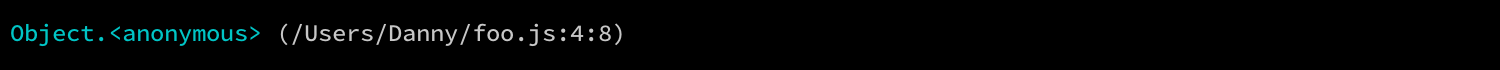
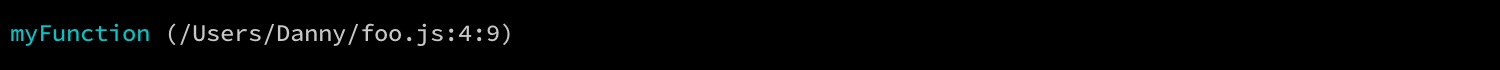
Tweak `dantil.logLine()` example

Changed region(s): [[0.0, 0.3429, 0.4293, 0.6571]]

diff --git a/dantil.js b/dantil.js
@@ -1183,12 +1183,16 @@ exports.logTrace = function (message) {
  * ```
  * The contents of `foo.js`:
  * ```js
- * dantil.logLine()
+ * function myFunction() {
+ *   dantil.logLine()
+ * }
  * ```
  * Output:
  * <br><img src="https://raw.githubusercontent.com/DannyNemer/dantil/master/doc/img/dantil-logLine-example.jpg" alt="dantil.logLine() example output"/>
  * ```js
- * dantil.logLine('Bad area reached!')
+ * function myFunction() {
+ *   dantil.logLine('Bad area reached!')
+ * }
  * ```
  * Output:
  * <br><img src="https://raw.githubusercontent.com/DannyNemer/dantil/master/doc/img/dantil-logLine-label-example.jpg" alt="dantil.logLine(label) example output"/>

diff --git a/README.md b/README.md
@@ -941,7 +941,7 @@ Output:
 <!-- div -->
 
 ### <a id="dantil-logLine"></a>`dantil.logLine([label])`
-<a href="#dantil-logLine">#</a> [&#x24C8;](https://github.com/DannyNemer/dantil/blob/master/dantil.js#L1197 "View in source") [&#x24C9;][1]
+<a href="#dantil-logLine">#</a> [&#x24C8;](https://github.com/DannyNemer/dantil/blob/master/dantil.js#L1201 "View in source") [&#x24C9;][1]
 
 Prints the calling function name, file path, and line number. This is useful for marking reaching a section of code.
 
@@ -951,12 +951,16 @@ Prints the calling function name, file path, and line number. This is useful for
 #### Example
 The contents of `foo.js`:
 ```js
-dantil.logLine()
+function myFunction() {
+  dantil.logLine()
+}
 ```
 Output:
 <br><img src="https://raw.githubusercontent.com/DannyNemer/dantil/master/doc/img/dantil-logLine-example.jpg" alt="dantil.logLine() example output"/>
 ```js
-dantil.logLine('Bad area reached!')
+function myFunction() {
+  dantil.logLine('Bad area reached!')
+}
 ```
 Output:
 <br><img src="https://raw.githubusercontent.com/DannyNemer/dantil/master/doc/img/dantil-logLine-label-example.jpg" alt="dantil.logLine(label) example output"/>
@@ -967,7 +971,7 @@ Output:
 <!-- div -->
 
 ### <a id="dantil-logLineIf"></a>`dantil.logLineIf(value, [label])`
-<a href="#dantil-logLineIf">#</a> [&#x24C8;](https://github.com/DannyNemer/dantil/blob/master/dantil.js#L1232 "View in source") [&#x24C9;][1]
+<a href="#dantil-logLineIf">#</a> [&#x24C8;](https://github.com/DannyNemer/dantil/blob/master/dantil.js#L1236 "View in source") [&#x24C9;][1]
 
 If `value` is truthy, prints the calling function name, file path, and line number. This is useful for marking reaching a section of code.
 
@@ -995,7 +999,7 @@ Output:
 <!-- div -->
 
 ### <a id="dantil-prettifyStackTrace"></a>`dantil.prettifyStackTrace([removePathParens])`
-<a href="#dantil-prettifyStackTrace">#</a> [&#x24C8;](https://github.com/DannyNemer/dantil/blob/master/dantil.js#L1256 "View in source") [&#x24C9;][1]
+<a href="#dantil-prettifyStackTrace">#</a> [&#x24C8;](https://github.com/DannyNemer/dantil/blob/master/dantil.js#L1260 "View in source") [&#x24C9;][1]
 
 Modifies V8's default stack trace format (when printing) to stylize output and collect 15 stack frames instead of (the default) 10.
 
@@ -1024,7 +1028,7 @@ After:
 <!-- div -->
 
 ### <a id="dantil-assertEqual"></a>`dantil.assertEqual(value, other, [message])`
-<a href="#dantil-assertEqual">#</a> [&#x24C8;](https://github.com/DannyNemer/dantil/blob/master/dantil.js#L1328 "View in source") [&#x24C9;][1]
+<a href="#dantil-assertEqual">#</a> [&#x24C8;](https://github.com/DannyNemer/dantil/blob/master/dantil.js#L1332 "View in source") [&#x24C9;][1]
 
 Tests shallow, coercive equality with the equal comparison operator (`==`). If the test fails, prints an error message and the file path and line number to `stderr`. In contrast, Node's `assert.equal()` throws an exception.
 
@@ -1070,7 +1074,7 @@ if (dantil.assertEqual(myArray.length, 100)) {
 <!-- div -->
 
 ### <a id="dantil-time"></a>`dantil.time(label)`
-<a href="#dantil-time">#</a> [&#x24C8;](https://github.com/DannyNemer/dantil/blob/master/dantil.js#L1372 "View in source") [&#x24C9;][1]
+<a href="#dantil-time">#</a> [&#x24C8;](https://github.com/DannyNemer/dantil/blob/master/dantil.js#L1376 "View in source") [&#x24C9;][1]
 
 Starts a high-resolution timer (with precision in microseconds) identified by `label`. Use `dantil.timeEnd(label)` to print the timer's current value.
 
@@ -1099,7 +1103,7 @@ dantil.timeEnd('my test')
 <!-- div -->
 
 ### <a id="dantil-timeEnd"></a>`dantil.timeEnd(label)`
-<a href="#dantil-timeEnd">#</a> [&#x24C8;](https://github.com/DannyNemer/dantil/blob/master/dantil.js#L1382 "View in source") [&#x24C9;][1]
+<a href="#dantil-timeEnd">#</a> [&#x24C8;](https://github.com/DannyNemer/dantil/blob/master/dantil.js#L1386 "View in source") [&#x24C9;][1]
 
 Prints the current high-resolution value of a timer initiated with `dantil.time(label)`.
 
@@ -1113,7 +1117,7 @@ Prints the current high-resolution value of a timer initiated with `dantil.time(
 <!-- div -->
 
 ### <a id="dantil-count"></a>`dantil.count(label)`
-<a href="#dantil-count">#</a> [&#x24C8;](https://github.com/DannyNemer/dantil/blob/master/dantil.js#L1409 "View in source") [&#x24C9;][1]
+<a href="#dantil-count">#</a> [&#x24C8;](https://github.com/DannyNemer/dantil/blob/master/dantil.js#L1413 "View in source") [&#x24C9;][1]
 
 Increments the invocation count for `label`. Use `dantil.end(label)` or `dantil.endAll()` to print the counter's value. This is useful for profiling the number of times a section of code is reached.
 
@@ -1137,7 +1141,7 @@ dantil.countEnd('even')
 <!-- div -->
 
 ### <a id="dantil-countEnd"></a>`dantil.countEnd(label)`
-<a href="#dantil-countEnd">#</a> [&#x24C8;](https://github.com/DannyNemer/dantil/blob/master/dantil.js#L1419 "View in source") [&#x24C9;][1]
+<a href="#dantil-countEnd">#</a> [&#x24C8;](https://github.com/DannyNemer/dantil/blob/master/dantil.js#L1423 "View in source") [&#x24C9;][1]
 
 Prints (and resets the value of) the number of `dantil.count(label)` invocations.
 
@@ -1151,7 +1155,7 @@ Prints (and resets the value of) the number of `dantil.count(label)` invocations
 <!-- div -->
 
 ### <a id="dantil-countEndAll"></a>`dantil.countEndAll`
-<a href="#dantil-countEndAll">#</a> [&#x24C8;](https://github.com/DannyNemer/dantil/blob/master/dantil.js#L1440 "View in source") [&#x24C9;][1]
+<a href="#dantil-countEndAll">#</a> [&#x24C8;](https://github.com/DannyNemer/dantil/blob/master/dantil.js#L1444 "View in source") [&#x24C9;][1]
 
 Prints (and resets the values of) the counter value of each label recorded by `counter.count()`, and each counter's value as a percentage of all counters.
 <br>
@@ -1182,7 +1186,7 @@ dantil.endAll()
 <!-- div -->
 
 ### <a id="dantil-clone"></a>`dantil.clone(value)`
-<a href="#dantil-clone">#</a> [&#x24C8;](https://github.com/DannyNemer/dantil/blob/master/dantil.js#L1460 "View in source") [&#x24C9;][1]
+<a href="#dantil-clone">#</a> [&#x24C8;](https://github.com/DannyNemer/dantil/blob/master/dantil.js#L1464 "View in source") [&#x24C9;][1]
 
 Creates a shallow clone of `value`.
 
@@ -1209,7 +1213,7 @@ shallow[0] === objects[0]
 <!-- div -->
 
 ### <a id="dantil-isDeepEqual"></a>`dantil.isDeepEqual(value, other, [customizer], [thisArg])`
-<a href="#dantil-isDeepEqual">#</a> [&#x24C8;](https://github.com/DannyNemer/dantil/blob/master/dantil.js#L1505 "View in source") [&#x24C9;][1]
+<a href="#dantil-isDeepEqual">#</a> [&#x24C8;](https://github.com/DannyNemer/dantil/blob/master/dantil.js#L1509 "View in source") [&#x24C9;][1]
 
 Performs a deep comparison between two values to determine if they are equivalent using the [`lodash.isEqual`](https://npmjs.com/package/lodash.isequal) module.
 
@@ -1246,7 +1250,7 @@ dantil.isDeepEqual(object, other)
 <!-- div -->
 
 ### <a id="dantil-unary"></a>`dantil.unary(func)`
-<a href="#dantil-unary">#</a> [&#x24C8;](https://github.com/DannyNemer/dantil/blob/master/dantil.js#L1520 "View in source") [&#x24C9;][1]
+<a href="#dantil-unary">#</a> [&#x24C8;](https://github.com/DannyNemer/dantil/blob/master/dantil.js#L1524 "View in source") [&#x24C9;][1]
 
 Creates a function that accepts up to one argument, ignoring any additional arguments.
 
@@ -1274,7 +1278,7 @@ Creates a function that accepts up to one argument, ignoring any additional argu
 <!-- div -->
 
 ### <a id="dantil-objectsEqual"></a>`dantil.objectsEqual(a, b)`
-<a href="#dantil-objectsEqual">#</a> [&#x24C8;](https://github.com/DannyNemer/dantil/blob/master/dantil.js#L1556 "View in source") [&#x24C9;][1]
+<a href="#dantil-objectsEqual">#</a> [&#x24C8;](https://github.com/DannyNemer/dantil/blob/master/dantil.js#L1560 "View in source") [&#x24C9;][1]
 
 Performs a shallow comparison between two objects to determine if they are equivalent.
 
@@ -1313,7 +1317,7 @@ dantil.objectsEqual({ a: objA, b: objB }, { a: objA, b: objB })
 <!-- div -->
 
 ### <a id="dantil-deleteUndefinedObjectProps"></a>`dantil.deleteUndefinedObjectProps(object)`
-<a href="#dantil-deleteUndefinedObjectProps">#</a> [&#x24C8;](https://github.com/DannyNemer/dantil/blob/master/dantil.js#L1582 "View in source") [&#x24C9;][1]
+<a href="#dantil-deleteUndefinedObjectProps">#</a> [&#x24C8;](https://github.com/DannyNemer/dantil/blob/master/dantil.js#L1586 "View in source") [&#x24C9;][1]
 
 Recursively removes all properties of `object` defined as `undefined`. This is useful for object comparisons and pretty-printing.
 <br>
@@ -1333,7 +1337,7 @@ Recursively removes all properties of `object` defined as `undefined`. This is u
 <!-- div -->
 
 ### <a id="dantil-diffObjects"></a>`dantil.diffObjects(object, other, [collapsed])`
-<a href="#dantil-diffObjects">#</a> [&#x24C8;](https://github.com/DannyNemer/dantil/blob/master/dantil.js#L1648 "View in source") [&#x24C9;][1]
+<a href="#dantil-diffObjects">#</a> [&#x24C8;](https://github.com/DannyNemer/dantil/blob/master/dantil.js#L1652 "View in source") [&#x24C9;][1]
 
 Compares two objects line by line and stylizes the differences for printing.
 
@@ -1398,7 +1402,7 @@ Collapsed output:
 <!-- div -->
 
 ### <a id="dantil-arraysEqual"></a>`dantil.arraysEqual(a, b, [predicate])`
-<a href="#dantil-arraysEqual">#</a> [&#x24C8;](https://github.com/DannyNemer/dantil/blob/master/dantil.js#L1762 "View in source") [&#x24C9;][1]
+<a href="#dantil-arraysEqual">#</a> [&#x24C8;](https://github.com/DannyNemer/dantil/blob/master/dantil.js#L1766 "View in source") [&#x24C9;][1]
 
 Performs a shallow comparison between two arrays to determine if they are equivalent.
 <br>
@@ -1446,7 +1450,7 @@ dantil.arraysEqual([ objA, objB ], [ objA, objB ])
 <!-- div -->
 
 ### <a id="dantil-new2DArray"></a>`dantil.new2DArray(length, [subLength=0])`
-<a href="#dantil-new2DArray">#</a> [&#x24C8;](https://github.com/DannyNemer/dantil/blob/master/dantil.js#L1806 "View in source") [&#x24C9;][1]
+<a href="#dantil-new2DArray">#</a> [&#x24C8;](https://github.com/DannyNemer/dantil/blob/master/dantil.js#L1810 "View in source") [&#x24C9;][1]
 
 Creates a new two-dimensional array with length `length`.
 
@@ -1472,7 +1476,7 @@ dantil.new2DArray(4, 2)
 <!-- div -->
 
 ### <a id="dantil-without"></a>`dantil.without(array, [values])`
-<a href="#dantil-without">#</a> [&#x24C8;](https://github.com/DannyNemer/dantil/blob/master/dantil.js#L1832 "View in source") [&#x24C9;][1]
+<a href="#dantil-without">#</a> [&#x24C8;](https://github.com/DannyNemer/dantil/blob/master/dantil.js#L1836 "View in source") [&#x24C9;][1]
 
 Creates an array excluding all provided values.
 
@@ -1501,7 +1505,7 @@ dantil.without([ 3, 1, 4, 1, 5 ], 1, 5)
 <!-- div -->
 
 ### <a id="dantil-cleanFloat"></a>`dantil.cleanFloat(number)`
-<a href="#dantil-cleanFloat">#</a> [&#x24C8;](https://github.com/DannyNemer/dantil/blob/master/dantil.js#L1866 "View in source") [&#x24C9;][1]
+<a href="#dantil-cleanFloat">#</a> [&#x24C8;](https://github.com/DannyNemer/dantil/blob/master/dantil.js#L1870 "View in source") [&#x24C9;][1]
 
 Removes any extraneous digits from `number`, which result from operations limited by JavaScript's floating point number precision, such as `0.1 * 0.2` (which does not equal `0.02`). This limitation results from being unable to map `0.1` to a finite binary floating point number.
 
@@ -1532,7 +1536,7 @@ number = dantil.cleanFloat(number)
 <!-- div -->
 
 ### <a id="dantil-diffStrings"></a>`dantil.diffStrings(expected, actual)`
-<a href="#dantil-diffStrings">#</a> [&#x24C8;](https://github.com/DannyNemer/dantil/blob/master/dantil.js#L1894 "View in source") [&#x24C9;][1]
+<a href="#dantil-diffStrings">#</a> [&#x24C8;](https://github.com/DannyNemer/dantil/blob/master/dantil.js#L1898 "View in source") [&#x24C9;][1]
 
 Compares two strings word by word and stylizes the differences for printing.
 
@@ -1562,7 +1566,7 @@ Output:
 <!-- div -->
 
 ### <a id="dantil-format"></a>`dantil.format(string, [placeholderVals])`
-<a href="#dantil-format">#</a> [&#x24C8;](https://github.com/DannyNemer/dantil/blob/master/dantil.js#L1932 "View in source") [&#x24C9;][1]
+<a href="#dantil-format">#</a> [&#x24C8;](https://github.com/DannyNemer/dantil/blob/master/dantil.js#L1936 "View in source") [&#x24C9;][1]
 
 Formats a string in a `printf()`-like format using Node's `util.format()`.
 
@@ -1585,7 +1589,7 @@ dantil.format('%s:%s %d', 'foo', 'bar', 22)
 <!-- div -->
 
 ### <a id="dantil-kebabToCamelCase"></a>`dantil.kebabToCamelCase(kebabCasedString)`
-<a href="#dantil-kebabToCamelCase">#</a> [&#x24C8;](https://github.com/DannyNemer/dantil/blob/master/dantil.js#L1947 "View in source") [&#x24C9;][1]
+<a href="#dantil-kebabToCamelCase">#</a> [&#x24C8;](https://github.com/DannyNemer/dantil/blob/master/dantil.js#L1951 "View in source") [&#x24C9;][1]
 
 Converts kebab cased `string` to camel case.
 
@@ -1607,7 +1611,7 @@ dantil.kebabToCamelCase('my-long-variable-name')
 <!-- div -->
 
 ### <a id="dantil-camelToKebabCase"></a>`dantil.camelToKebabCase(camelCasedString)`
-<a href="#dantil-camelToKebabCase">#</a> [&#x24C8;](https://github.com/DannyNemer/dantil/blob/master/dantil.js#L1966 "View in source") [&#x24C9;][1]
+<a href="#dantil-camelToKebabCase">#</a> [&#x24C8;](https://github.com/DannyNemer/dantil/blob/master/dantil.js#L1970 "View in source") [&#x24C9;][1]
 
 Converts camel cased `string` to kebab case.
 
@@ -1629,7 +1633,7 @@ dantil.camelToKebabCase('myLongVariableName')
 <!-- div -->
 
 ### <a id="dantil-enquote"></a>`dantil.enquote(string)`
-<a href="#dantil-enquote">#</a> [&#x24C8;](https://github.com/DannyNemer/dantil/blob/master/dantil.js#L1985 "View in source") [&#x24C9;][1]
+<a href="#dantil-enquote">#</a> [&#x24C8;](https://github.com/DannyNemer/dantil/blob/master/dantil.js#L1989 "View in source") [&#x24C9;][1]
 
 Encloses `string` in single quotes.
 
